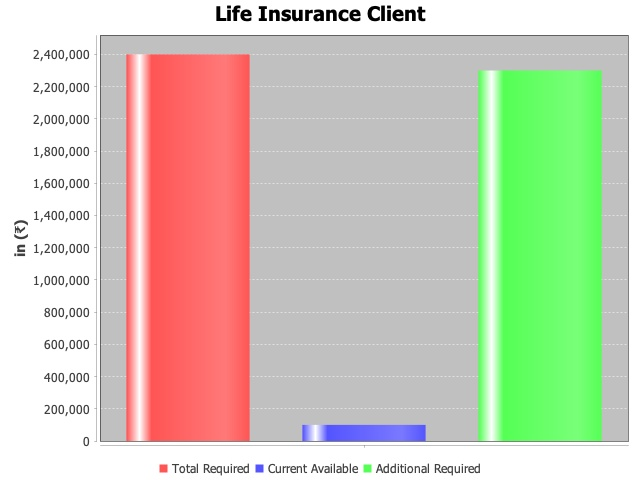
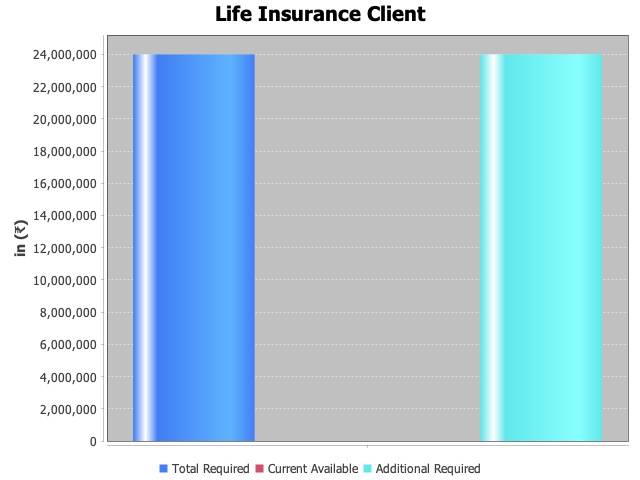
third commit

diff --git a/src/main/resources/templates/register_success.html b/src/main/resources/templates/register_success.html
@@ -1,19 +1,23 @@
 <!DOCTYPE html>
 <html xmlns:th="http://www.thymeleaf.org">
 <head>
+    <link th:href="@{/styles/cssandjs/registeration_success.css}" rel="stylesheet"/>
     <meta charset="ISO-8859-1">
     <title>Registration Success</title>
-    <style type="text/css">
-        span {
-            display: inline-block;
-            width: 200px;
-            text-align: left;
-        }
-    </style>
+<!--    <style type="text/css">-->
+<!--        span {-->
+<!--            display: inline-block;-->
+<!--            width: 200px;-->
+<!--            text-align: left;-->
+<!--        }-->
+<!--    </style>-->
 </head>
 <body>
-<div align="center">
+<div align="center" id="registration_success">
     <h2>Registration Succeeded!</h2>
+    <p>Your Financial Report is emailed to Koshantra Financials</p>
+    <p>They will contact you soon</p>
+    <p>or Contact Us at 9311566022, 9650934919 or Email at <a href="info@koshantrafinancials.com">info@koshantrafinancials.com</a> </p>
 <!--    <span>Full name:</span><span th:text="${'payload.get(stock-name)'}"></span><br/>-->
 <!--    <span>E-mail:</span><span th:text="${user.email}"></span><br/>-->
 <!--    <span>Password:</span><span th:text="${user.password}"></span><br/>-->

diff --git a/src/main/resources/templates/Page9_FinancialGoals.html b/src/main/resources/templates/Page9_FinancialGoals.html
@@ -8,13 +8,13 @@
 <p>The first step in creating a financial plan is to identify your financial goals. You have mentioned the below financial goals for you and
 your family:</p>
 <br/><br/>
-<p>Rupee sign: &#8377; &#x20B9;</p>
+<!--<p>Rupee sign: &#8377; &#x20B9;</p>-->
 <table>
     <thead>
     <tr class="headings">
-        <th th:each="header: ${financialGoalsColumns}" class="column-title">
-            <span th:text="${header}"></span>
-            <span th:if="${header == 'Future Cost' or header == 'Present Cost of Goal'}" th:utext="'('+${'&#8377; &#x20B9;'+'&nbsp;'}+')'" ></span>
+        <th th:each="header: ${financialGoalsColumns}" class="column-title" th:text="${header}">
+<!--            <span th:text="${header}"></span>-->
+<!--            <span th:if="${header == 'Future Cost' or header == 'Present Cost of Goal'}" th:utext="'('+${'&#8377; &#x20B9;'+'&nbsp;'}+')'" ></span>-->
         </th>
     </tr>
     </thead>

diff --git a/src/main/resources/templates/Page1_Cover.html b/src/main/resources/templates/Page1_Cover.html
@@ -21,7 +21,7 @@
 <h4 style="background-color: white; color: black; text-align: center;" th:text="'Assessment No. ' + ${ID}"></h4>
 <hr style="border-color: lightblue; border-left-width: 0; border-right-width: 0; border-top-width: 0; border-bottom-width: 5px; padding-top: 10px; padding-bottom: 10px;"/>
 <!--<hr/>-->
-<img alt="LOGO" th:src="@{${logo}}" class="image-center" />
+<img alt="LOGO" th:src="@{${logo}}" class="image-center" style="padding-top: 10px;" />
 <!--<hr style="width: 100%; border: 2px lightblue; padding-top: 10px; padding-bottom: 10px;"/>-->
 <hr style="border-color: lightblue; border-left-width: 0; border-right-width: 0; border-top-width: 0; border-bottom-width: 2px; padding-bottom: 40px; padding-top: 20px;"/>
 <p style="color: cornflowerblue; font-size: smaller">

diff --git a/src/main/resources/static/styles/cssandjs/registeration_success.css b/src/main/resources/static/styles/cssandjs/registeration_success.css
@@ -1,0 +1,26 @@
+div{
+    background-color: lightblue;
+    text-align: center;
+    padding-top: 40px;
+    padding-bottom: 40px;
+    width: 50%;
+    margin-top: 20%;
+    /*margin-bottom: 50%;*/
+    margin-left: 25%;
+    /*margin-right: 50%;*/
+    border: lightcoral;
+    border-style: double;
+    border-width: 5px;
+}
+
+button{
+    width: 500px;
+    height: 50px;
+    background-color: lightcoral;
+}
+a{
+    text-decoration: none;
+    color: black;
+    font-size: medium;
+    text-underline: none;
+}

diff --git a/src/main/resources/templates/index.html b/src/main/resources/templates/index.html
@@ -1,13 +1,14 @@
 <!DOCTYPE html>
 <html>
 <head>
+    <link th:href="@{/styles/cssandjs/registeration_success.css}" rel="stylesheet"/>
     <meta charset="ISO-8859-1">
     <title>Spring Boot Form Demo</title>
 </head>
 <body>
 <div align="center">
-    <h1>Spring Boot Form Demo</h1>
-    <a href="/register">Click here to register</a>
+    <h1>Welcome To KOSHANTRA FINANCIALS</h1>
+    <button><a href="/register">Click here to create your Financial Report</a></button>
 </div>
 </body>
 </html>

diff --git a/src/main/resources/templates/Page14_Disclaimer.html b/src/main/resources/templates/Page14_Disclaimer.html
@@ -1,6 +1,7 @@
 <!DOCTYPE html>
 <html lang="en">
 <head>
+    <link href="src/main/resources/templates/static/css/style.css" rel="stylesheet"/>
     <meta charset="UTF-8"/>
     <title>Title</title>
 </head>

diff --git a/src/main/resources/templates/Page2.html b/src/main/resources/templates/Page2.html
@@ -1,6 +1,7 @@
 <!DOCTYPE html>
 <html lang="en">
 <head>
+    <link href="src/main/resources/templates/static/css/style.css" rel="stylesheet"/>
     <meta charset="UTF-8"/>
     <title>Title</title>
 </head>

diff --git a/src/main/java/com/example/financialassessment/service/PdfService.java b/src/main/java/com/example/financialassessment/service/PdfService.java
@@ -4,8 +4,10 @@ import com.example.financialassessment.dto.Portfolio;
 import com.example.financialassessment.util.EmailSendingUtil;
 import com.example.financialassessment.util.PdfGeneratorUtil;
 import org.jfree.chart.ChartFactory;
+import org.jfree.chart.ChartRenderingInfo;
 import org.jfree.chart.ChartUtils;
 import org.jfree.chart.JFreeChart;
+import org.jfree.chart.plot.CategoryPlot;
 import org.jfree.chart.plot.PiePlot;
 import org.jfree.chart.plot.PlotOrientation;
 import org.jfree.chart.labels.StandardPieSectionLabelGenerator;
@@ -15,10 +17,12 @@ import org.springframework.beans.factory.annotation.Autowired;
 import org.springframework.stereotype.Component;
 import org.thymeleaf.expression.Lists;
 
+import java.awt.*;
 import java.io.BufferedWriter;
 import java.io.File;
 import java.io.FileWriter;
 import java.io.IOException;
+import java.text.DecimalFormat;
 import java.time.LocalDate;
 import java.time.Period;
 import java.util.*;
@@ -200,7 +204,8 @@ public class PdfService {
 //        data.put("logo", "src/main/resources/templates/images/koshantra_logo.PNG");
         data.put("logo", "src/main/resources/templates/images/koshantra_logo_with_text.png");
         data.put("client_name", payload.get("first_name")+" "+payload.get("last_name"));
-        data.put("ID","1");
+        String fileName = payload.get("first_name")+" "+payload.get("last_name") + "_" + UUID.randomUUID().toString();
+        data.put("ID",fileName);
 
         //Page3
         List<String> personalInfoColumns = Arrays.asList("Relationship", "Name", "DOB", "Occupation", "Mobile No.");
@@ -270,9 +275,10 @@ public class PdfService {
 //        data.put("assumptionData", assumptionData);
 
         //Page9
-        List<String> financialGoalsColumns = Arrays.asList("Goal Name", "Years to Goal", "Present Value", "Growth Rate(%)", "Future Cost");
+        List<String> financialGoalsColumns = Arrays.asList("Goal Name", "Years to Goal", "Present Value", "Growth Rate(%)", "Future Cost(Rs.)");
         List<Map<String,Object>> financialGoalsData = new ArrayList<>();
         String life_goals = (String) payload.get("life_goals");
+        DecimalFormat df = new DecimalFormat("0.00");
         if(life_goals != null) {
             String[] life_goals_list = life_goals.split(",");
 //        ArrayList<String> life_goals = (ArrayList<String>) payload.get("life_goals");
@@ -284,53 +290,64 @@ public class PdfService {
                             LocalDate curDate = LocalDate.now();
                             int age = Period.between(LocalDate.parse(dependents_dob.get(i)), curDate).getYears();
                             if (age < 18) {
-                                int rate = 8, present_value = 700000;
+                                double rate = 0.08;
+                                int present_value = 700000;
+                                double futureCost = (present_value) * Math.pow(1 + rate, age);
+
                                 financialGoalsData.add(Map.of("Goal Name", dependents_name.get(i) + "-Graduation",
                                         "Years to Goal", (18 - age),
                                         "Present Value", present_value,
-                                        "Growth Rate(%)", rate,
-                                        "Future Cost", (present_value) * Math.pow(1 + rate, age)));
+                                        "Growth Rate(%)", (rate*100),
+                                        "Future Cost(Rs.)", df.format(futureCost)));
                             }
                             if (age < 21) {
-                                int rate = 8, present_value = 2000000;
+                                double rate = 0.08;
+                                int present_value = 2000000;
+                                double futureCost = (present_value) * Math.pow(1 + rate, age);
                                 financialGoalsData.add(Map.of("Goal Name", dependents_name.get(i) + "-Higher Studies",
                                         "Years to Goal", (21 - age),
                                         "Present Value", present_value,
-                                        "Growth Rate(%)", rate,
-                                        "Future Cost", (present_value) * Math.pow(1 + rate, age)));
+                                        "Growth Rate(%)", (rate*100),
+                                        "Future Cost(Rs.)", df.format(futureCost)));
                             }
                         }
                     }
                 }
                 if (life_goal.equals("Self Marriage")) {
                     LocalDate curDate = LocalDate.now();
-                    int age = Period.between(LocalDate.parse((String) payload.get("dob")), curDate).getYears(), rate = 6, present_value = 2000000;
+                    int age = Period.between(LocalDate.parse((String) payload.get("dob")), curDate).getYears(), present_value = 2000000;
+                    double rate = 0.06;
+                    double futureCost = (present_value) * Math.pow(1 + rate, age);
                     financialGoalsData.add(Map.of("Goal Name", payload.get("first_name") + " " + payload.get("last_name") + "-Marriage",
                             "Years to Goal", (25 - age),
                             "Present Value", present_value,
-                            "Growth Rate(%)", rate,
-                            "Future Cost", (present_value) * Math.pow(1 + rate, age)));
+                            "Growth Rate(%)", (rate*100),
+                            "Future Cost(Rs.)", df.format(futureCost)));
                 }
                 if (life_goal.equals("Retirement")) {
                     LocalDate curDate = LocalDate.now();
-                    int age = Period.between(LocalDate.parse((String) payload.get("dob")), curDate).getYears(), rate = 6;
+                    int age = Period.between(LocalDate.parse((String) payload.get("dob")), curDate).getYears();
+                    double rate = 0.06;
+                    double futureCost = (Long.parseLong(annual_expense)) * Math.pow(1 + rate, age);
                     financialGoalsData.add(Map.of("Goal Name", payload.get("first_name") + " " + payload.get("last_name") + "-Retirement",
                             "Years to Goal", (58 - age),
                             "Present Value", annual_expense,
-                            "Growth Rate(%)", rate,
-                            "Future Cost", (Long.parseLong(annual_expense)) * Math.pow(1 + rate, age)));
+                            "Growth Rate(%)", (rate*100),
+                            "Future Cost(Rs.)", df.format(futureCost)));
                 }
                 if (life_goal.equals("Child Marriage")) {
                     for (int i = 0; i < dependents_relationship.size(); i++) {
                         if (dependents_relationship.get(i).equals("Child")) {
                             LocalDate curDate = LocalDate.now();
                             int age = Period.between(LocalDate.parse(dependents_dob.get(i)), curDate).getYears();
-                            int rate = 6, present_value = 2000000;
+                            double rate = 0.06;
+                            int present_value = 2000000;
+                            double futureCost = (present_value) * Math.pow(1 + rate, age);
                             financialGoalsData.add(Map.of("Goal Name", dependents_name.get(i) + "-Marriage",
                                     "Years to Goal", (25 - age),
                                     "Present Value", present_value,
-                                    "Growth Rate(%)", rate,
-                                    "Future Cost", (present_value) * Math.pow(1 + rate, age)));
+                                    "Growth Rate(%)", (rate*100),
+                                    "Future Cost(Rs.)", df.format(futureCost)));
                         }
                     }
                 }
@@ -402,7 +419,7 @@ public class PdfService {
         Long total_li_required = 20 * (Long.parseLong(annual_income));
         Long additional_li_required = (total_li_required) - lis_amount;
         Long ideal_hi_amount = 0L;
-        if(age>=25 && age<30)ideal_hi_amount = 5_00_000L;
+        if(age>=21 && age<30)ideal_hi_amount = 5_00_000L;
         else if(age>=30 && age <40) ideal_hi_amount = 10_00_000L;
         else if (age>=40 && age<50) ideal_hi_amount = 15_00_000L;
         else if(age>=50) ideal_hi_amount = 20_00_000L;
@@ -517,7 +534,7 @@ public class PdfService {
 
         try {
 //            PdfGeneratorUtil pdfGeneratorUtil1 = new PdfGeneratorUtil();
-            File outputFile = pdfGeneratorUtil.createPdf(payload.get("first_name")+ " " + payload.get("last_name") + "_customer_report",data, "Page1_Cover","Page2","Page3_PI","Page4_CashFlow", "Page5_CashFlowGraph",
+            File outputFile = pdfGeneratorUtil.createPdf(fileName + "_customer_report",data, "Page1_Cover","Page2","Page3_PI","Page4_CashFlow", "Page5_CashFlowGraph",
                     /*"Page7_Investment"*//*, "Page8_Assumptions",*/"Page9_FinancialGoals","Page10_AssetAllocationChart","your_networth", "Page11_ActionPlan",
                     "Page12_ActionPlanChart", "Page14_Disclaimer");
 
@@ -542,7 +559,7 @@ public class PdfService {
 //            FileWriter payload_file = new FileWriter("payload_"+"id"+".txt");
 //            payload_file.write(payload.toString());
 //            payload_file.close();
-            EmailSendingUtil.sendEmail(outputFile, file, "ishween1999@gmail.com");
+            EmailSendingUtil.sendEmail(outputFile, file);
         } catch (Exception e) {
             e.printStackTrace();
         }
@@ -564,6 +581,11 @@ public class PdfService {
                 dataset,PlotOrientation.VERTICAL,
                 true, false, false);
 
+        CategoryPlot plot = barChart.getCategoryPlot();
+        plot.getRenderer().setSeriesPaint(0, new Color(66, 126, 245));
+        plot.getRenderer().setSeriesPaint(1, new Color(212, 76, 112));
+        plot.getRenderer().setSeriesPaint(2, new Color(96, 232, 235));
+
         int width = 640;    /* Width of the image */
         int height = 480;   /* Height of the image */
         File BarChart = new File( "src/main/resources/templates/images/"+fileName+".jpeg" );
@@ -583,6 +605,8 @@ public class PdfService {
 
         // Create the chart object
         PiePlot plot = new PiePlot(dataset);
+        plot.setSectionPaint(0, new Color(66, 126, 245));
+        plot.setSectionPaint(1, new Color(212, 76, 112));
 
         // Define labels management for pie chart
         StandardPieSectionLabelGenerator spilg = new StandardPieSectionLabelGenerator("{2}" );

diff --git a/src/main/java/com/example/financialassessment/util/PdfGeneratorUtil.java b/src/main/java/com/example/financialassessment/util/PdfGeneratorUtil.java
@@ -15,7 +15,7 @@ import java.util.UUID;
 public class PdfGeneratorUtil {
     @Autowired
     private TemplateEngine templateEngine;
-    public File createPdf(String name, Map map, String... templateName) throws Exception {
+    public File createPdf(String fileName, Map map, String... templateName) throws Exception {
         Assert.notNull(templateName, "The templateName can not be null");
         Context ctx = new Context();
         if (map != null) {
@@ -27,7 +27,7 @@ public class PdfGeneratorUtil {
 
 //        String processedHtml = templateEngine.process(templateName, ctx);
         FileOutputStream os = null;
-        String fileName = name + "_" + UUID.randomUUID().toString();
+//        String fileName = name + "_" + UUID.randomUUID().toString();
         File directory = new File("/Users/ishween.kaur/Documents/workspace/financialAssessment/");
         final File outputFile = File.createTempFile(fileName, ".pdf", directory);
 

diff --git a/src/main/java/com/example/financialassessment/util/EmailSendingUtil.java b/src/main/java/com/example/financialassessment/util/EmailSendingUtil.java
@@ -1,5 +1,7 @@
 package com.example.financialassessment.util;
 
+import org.springframework.beans.factory.annotation.Value;
+
 import java.io.File;
 import java.io.FileWriter;
 import java.io.IOException;
@@ -13,7 +15,12 @@ import javax.activation.*;
 //3. SEND MESSAGE
 
 public class EmailSendingUtil {
-    public static void sendEmail(File file, File fileWriter, String recipientEmailId){
+
+    @Value("${recipient.email.id}")
+    static String recipientEmailId;
+
+    public static void sendEmail(File file, File fileWriter){
+
         final String from = "ishweenk999@gmail.com",
                 host = "smtp.gmail.com", port = "465",
                 sslEnable = "true", auth = "true";

diff --git a/src/main/java/com/example/financialassessment/publisher/PortfolioPublisher.java b/src/main/java/com/example/financialassessment/publisher/PortfolioPublisher.java
@@ -69,4 +69,16 @@ public class PortfolioPublisher {
     public String getRegisterSuccess(){
         return "register_success";
     }
+
+
+    @GetMapping("/error")
+    public String getError(){
+        return "portfolioForm";
+    }
+
+
+    @PostMapping("/error")
+    public String postError(){
+        return "portfolioForm";
+    }
 }
